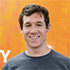
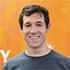
New Commits

diff --git a/views/pizza.html b/views/pizza.html
@@ -1,10 +1,14 @@
 <!DOCTYPE HTML>
 <html>
-<head>  
-  <link rel="stylesheet" href="css/style.css">
-  <link rel="stylesheet" href="css/bootstrap-grid.css">
+<head> 
+<!--inlining my CSS --> 
+<style>*{-webkit-box-sizing: border-box;-moz-box-sizing: border-box;-box-sizing: border-box;}body {font-family: "Trebuchet MS", Helvetica, sans-serif;background: black;}input {background: grey;font-size: 18px;}form {display: inline-block;}.centered {text-align: center;}#pizzaSize {font-weight: 800;}.mover {position: fixed;width: 256px;z-index: -1;}.randomPizzaContainer {float: left;display: flex;}.randomPizzaContainer:after {content: "";display: table;clear:both;}.container {background-color: rgba(240, 60, 60, 0.8);}img {vertical-align: middle;}.img-responsive {display: block;width: 100% \9;max-width: 100%;height: auto;}.img-rounded {border-radius: 6px;}.img-thumbnail {padding: 4px;line-height: 1.42857143;background-color: #ffffff;border: 1px solid #dddddd;border-radius: 4px;-webkit-transition: all 0.2s ease-in-out;-o-transition: all 0.2s ease-in-out;transition: all 0.2s ease-in-out;display: inline-block;width: 100% \9;max-width: 100%;height: auto;}.img-circle {border-radius: 50%;}hr {margin-top: 20px;margin-bottom: 20px;border: 0;border-top: 1px solid #eeeeee;}.sr-only {position: absolute;width: 1px;height: 1px;margin: -1px;padding: 0;overflow: hidden;clip: rect(0, 0, 0, 0);border: 0;}.sr-only-focusable:active,.sr-only-focusable:focus {position: static;width: auto;height: auto;margin: 0;overflow: visible;clip: auto;}.container {margin-right: auto;margin-left: auto;padding-left: 15px;padding-right: 15px;}@media (min-width: 768px) {.container {width: 750px;}}@media (min-width: 992px) {.container {width: 970px;}}@media (min-width: 1200px) {.container {width: 1170px;}}.container-fluid {margin-right: auto;margin-left: auto;padding-left: 15px;padding-right: 15px;}.row {margin-left: -15px;margin-right: -15px;}.col-xs-1, .col-sm-1, .col-md-1, .col-lg-1, .col-xs-2, .col-sm-2, .col-md-2, .col-lg-2, .col-xs-3, .col-sm-3, .col-md-3, .col-lg-3, .col-xs-4, .col-sm-4, .col-md-4, .col-lg-4, .col-xs-5, .col-sm-5, .col-md-5, .col-lg-5, .col-xs-6, .col-sm-6, .col-md-6, .col-lg-6, .col-xs-7, .col-sm-7, .col-md-7, .col-lg-7, .col-xs-8, .col-sm-8, .col-md-8, .col-lg-8, .col-xs-9, .col-sm-9, .col-md-9, .col-lg-9, .col-xs-10, .col-sm-10, .col-md-10, .col-lg-10, .col-xs-11, .col-sm-11, .col-md-11, .col-lg-11, .col-xs-12, .col-sm-12, .col-md-12, .col-lg-12 {position: relative;min-height: 1px;padding-left: 15px;padding-right: 15px;}.col-xs-1, .col-xs-2, .col-xs-3, .col-xs-4, .col-xs-5, .col-xs-6, .col-xs-7, .col-xs-8, .col-xs-9, .col-xs-10, .col-xs-11, .col-xs-12 {float: left;}.col-xs-12 {width: 100%;}.col-xs-11 {width: 91.66666667%;}.col-xs-10 {width: 83.33333333%;}.col-xs-9 {width: 75%;}.col-xs-8 {width: 66.66666667%;}.col-xs-7 {width: 58.33333333%;}.col-xs-6 {width: 50%;}.col-xs-5 {width: 41.66666667%;}.col-xs-4 {width: 33.33333333%;}.col-xs-3 {width: 25%;}.col-xs-2 {width: 16.66666667%;}.col-xs-1 {width: 8.33333333%;}.col-xs-pull-12 {right: 100%;}.col-xs-pull-11 {right: 91.66666667%;}.col-xs-pull-10 {right: 83.33333333%;}.col-xs-pull-9 {right: 75%;}.col-xs-pull-8 {right: 66.66666667%;}.col-xs-pull-7 {right: 58.33333333%;}.col-xs-pull-6 {right: 50%;}.col-xs-pull-5 {right: 41.66666667%;}.col-xs-pull-4 {right: 33.33333333%;}.col-xs-pull-3 {right: 25%;}.col-xs-pull-2 {right: 16.66666667%;}.col-xs-pull-1 {right: 8.33333333%;}.col-xs-pull-0 {right: auto;}.col-xs-push-12 {left: 100%;}.col-xs-push-11 {left: 91.66666667%;}.col-xs-push-10 {left: 83.33333333%;}.col-xs-push-9 {left: 75%;}.col-xs-push-8 {left: 66.66666667%;}.col-xs-push-7 {left: 58.33333333%;}.col-xs-push-6 {left: 50%;}.col-xs-push-5 {left: 41.66666667%;}.col-xs-push-4 {left: 33.33333333%;}.col-xs-push-3 {left: 25%;}.col-xs-push-2 {left: 16.66666667%;}.col-xs-push-1 {left: 8.33333333%;}.col-xs-push-0 {
+  left: auto;}.col-xs-offset-12 {margin-left: 100%;}.col-xs-offset-11 {margin-left: 91.66666667%;}.col-xs-offset-10 {margin-left: 83.33333333%;}.col-xs-offset-9 {margin-left: 75%;}.col-xs-offset-8 {margin-left: 66.66666667%;}.col-xs-offset-7 {margin-left: 58.33333333%;}.col-xs-offset-6 {margin-left: 50%;}.col-xs-offset-5 {margin-left: 41.66666667%;}.col-xs-offset-4 {margin-left: 33.33333333%;}.col-xs-offset-3 {margin-left: 25%;}.col-xs-offset-2 {margin-left: 16.66666667%;}.col-xs-offset-1 {margin-left: 8.33333333%;}.col-xs-offset-0 {margin-left: 0%;}@media (min-width: 768px) {.col-sm-1, .col-sm-2, .col-sm-3, .col-sm-4, .col-sm-5, .col-sm-6, .col-sm-7, .col-sm-8, .col-sm-9, .col-sm-10, .col-sm-11, .col-sm-12 {float: left;}.col-sm-12 {width: 100%;}.col-sm-11 {width: 91.66666667%;} .col-sm-10 {width: 83.33333333%;}.col-sm-9 {width: 75%;}.col-sm-8 {width: 66.66666667%;}.col-sm-7 {width: 58.33333333%;}.col-sm-6 {width: 50%;}.col-sm-5 {width: 41.66666667%;}.col-sm-4 {width: 33.33333333%;}.col-sm-3 {width: 25%;}.col-sm-2 {width: 16.66666667%;}.col-sm-1 {width: 8.33333333%;}.col-sm-pull-12 {right: 100%;}.col-sm-pull-11 {right: 91.66666667%;}.col-sm-pull-10 {right: 83.33333333%;}.col-sm-pull-9 {right: 75%;}.col-sm-pull-8 {right: 66.66666667%;}.col-sm-pull-7 {right: 58.33333333%;}.col-sm-pull-6 {right: 50%;}.col-sm-pull-5 {right: 41.66666667%;}.col-sm-pull-4 {right: 33.33333333%;}.col-sm-pull-3 {right: 25%;}.col-sm-pull-2 {right: 16.66666667%;}.col-sm-pull-1 {right: 8.33333333%;}.col-sm-pull-0 {right: auto;}.col-sm-push-12 {left: 100%;}.col-sm-push-11 {left: 91.66666667%;}.col-sm-push-10 {left: 83.33333333%;}.col-sm-push-9 {left: 75%;}.col-sm-push-8 {left: 66.66666667%;}.col-sm-push-7 {left: 58.33333333%;}.col-sm-push-6 {left: 50%;}.col-sm-push-5 {left: 41.66666667%;}.col-sm-push-4 {left: 33.33333333%;}.col-sm-push-3 {left: 25%;}.col-sm-push-2 {left: 16.66666667%;}.col-sm-push-1 {left: 8.33333333%;}.col-sm-push-0 {left: auto;}.col-sm-offset-12 {margin-left: 100%;}.col-sm-offset-11 {margin-left: 91.66666667%;}.col-sm-offset-10 {margin-left: 83.33333333%;}.col-sm-offset-9 {margin-left: 75%;}.col-sm-offset-8 {margin-left: 66.66666667%;}.col-sm-offset-7 {margin-left: 58.33333333%;}.col-sm-offset-6 {margin-left: 50%;}.col-sm-offset-5 {margin-left: 41.66666667%;}.col-sm-offset-4 {margin-left: 33.33333333%;}.col-sm-offset-3 {margin-left: 25%;}.col-sm-offset-2 {margin-left: 16.66666667%;}.col-sm-offset-1 {margin-left: 8.33333333%;}.col-sm-offset-0 {margin-left: 0%;}}@media (min-width: 992px) {.col-md-1, .col-md-2, .col-md-3, .col-md-4, .col-md-5, .col-md-6, .col-md-7, .col-md-8, .col-md-9, .col-md-10, .col-md-11, .col-md-12 {float: left;}.col-md-12 {width: 100%;}.col-md-11 {width: 91.66666667%;}.col-md-10 {width: 83.33333333%;}.col-md-9 {width: 75%;}.col-md-8 {width: 66.66666667%;}.col-md-7 {width: 58.33333333%;}.col-md-6 {width: 50%;}.col-md-5 {width: 41.66666667%;}.col-md-4 {width: 33.33333333%;}.col-md-3 {width: 25%;}.col-md-2 {width: 16.66666667%;}.col-md-1 {width: 8.33333333%;}.col-md-pull-12 {right: 100%;}.col-md-pull-11 {right: 91.66666667%;}.col-md-pull-10 {right: 83.33333333%;}.col-md-pull-9 {right: 75%;}.col-md-pull-8 {right: 66.66666667%;}.col-md-pull-7 {right: 58.33333333%;}.col-md-pull-6 {right: 50%;}.col-md-pull-5 {right: 41.66666667%;}.col-md-pull-4 {right: 33.33333333%;}.col-md-pull-3 {right: 25%;}.col-md-pull-2 {right: 16.66666667%;}.col-md-pull-1 {right: 8.33333333%;}.col-md-pull-0 {right: auto;}.col-md-push-12 {left: 100%;}.col-md-push-11 {left: 91.66666667%;}.col-md-push-10 {left: 83.33333333%;}.col-md-push-9 {left: 75%;}.col-md-push-8 {left: 66.66666667%;}.col-md-push-7 {left: 58.33333333%;}.col-md-push-6 {left: 50%;}.col-md-push-5 {left: 41.66666667%;}.col-md-push-4 {left: 33.33333333%;}.col-md-push-3 {left: 25%;}.col-md-push-2 {left: 16.66666667%;}.col-md-push-1 {left: 8.33333333%;}.col-md-push-0 {left: auto;}.col-md-offset-12 {margin-left: 100%;}.col-md-offset-11 {margin-left: 91.66666667%;}.col-md-offset-10 {margin-left: 83.33333333%;}.col-md-offset-9 {margin-left: 75%;}.col-md-offset-8 {margin-left: 66.66666667%;}.col-md-offset-7 {margin-left: 58.33333333%;}.col-md-offset-6 {margin-left: 50%;}.col-md-offset-5 {margin-left: 41.66666667%;}.col-md-offset-4 {margin-left: 33.33333333%;}.col-md-offset-3 {margin-left: 25%;}.col-md-offset-2 {margin-left: 16.66666667%;}.col-md-offset-1 {margin-left: 8.33333333%;}.col-md-offset-0 {margin-left: 0%;}}@media (min-width: 1200px) {.col-lg-1, .col-lg-2, .col-lg-3, .col-lg-4, .col-lg-5, .col-lg-6, .col-lg-7, .col-lg-8, .col-lg-9, .col-lg-10, .col-lg-11, .col-lg-12 {float: left;}.col-lg-12 {width: 100%;}.col-lg-11 {width: 91.66666667%;}.col-lg-10 {width: 83.33333333%;}.col-lg-9 {width: 75%;}.col-lg-8 {width: 66.66666667%;}.col-lg-7 {width: 58.33333333%;}.col-lg-6 {width: 50%;}.col-lg-5 {width: 41.66666667%;}.col-lg-4 {width: 33.33333333%;}.col-lg-3 {width: 25%;}.col-lg-2 {width: 16.66666667%;}.col-lg-1 {width: 8.33333333%;}.col-lg-pull-12 {right: 100%;}.col-lg-pull-11 {right: 91.66666667%;}.col-lg-pull-10 {right: 83.33333333%;}.col-lg-pull-9 {right: 75%;}.col-lg-pull-8 {right: 66.66666667%;}.col-lg-pull-7 {right: 58.33333333%;}.col-lg-pull-6 {right: 50%;}.col-lg-pull-5 {right: 41.66666667%;}.col-lg-pull-4 {right: 33.33333333%;}.col-lg-pull-3 {right: 25%;}.col-lg-pull-2 {right: 16.66666667%;}.col-lg-pull-1 {right: 8.33333333%;}.col-lg-pull-0 {right: auto;}.col-lg-push-12 {left: 100%;}.col-lg-push-11 {left: 91.66666667%;}.col-lg-push-10 {left: 83.33333333%;}.col-lg-push-9 {left: 75%;}.col-lg-push-8 {left: 66.66666667%;}.col-lg-push-7 {left: 58.33333333%;}.col-lg-push-6 {left: 50%;}.col-lg-push-5 {left: 41.66666667%;}.col-lg-push-4 {left: 33.33333333%;}.col-lg-push-3 {left: 25%;}.col-lg-push-2 {left: 16.66666667%;}.col-lg-push-1 {left: 8.33333333%;}.col-lg-push-0 {left: auto;}.col-lg-offset-12 {margin-left: 100%;}.col-lg-offset-11 {margin-left: 91.66666667%;}.col-lg-offset-10 {margin-left: 83.33333333%;}.col-lg-offset-9 {margin-left: 75%;}.col-lg-offset-8 {margin-left: 66.66666667%;}.col-lg-offset-7 {margin-left: 58.33333333%;}.col-lg-offset-6 {margin-left: 50%;}.col-lg-offset-5 {margin-left: 41.66666667%;}.col-lg-offset-4 {margin-left: 33.33333333%;}.col-lg-offset-3 {margin-left: 25%;}.col-lg-offset-2 {margin-left: 16.66666667%;}.col-lg-offset-1 {margin-left: 8.33333333%;}.col-lg-offset-0 {margin-left: 0%;}}.clearfix:before,.clearfix:after,.container:before,.container:after,.container-fluid:before,.container-fluid:after,.row:before,.row:after {content: " ";display: table;}.clearfix:after,.container:after,.container-fluid:after,.row:after {clear: both;}.center-block {display: block;margin-left: auto;margin-right: auto;}.pull-right {float: right !important;}.pull-left {float: left !important;}.hide {display: none !important;}.show {display: block !important;}.invisible {visibility: hidden;}.text-hide {font: 0/0 a;color: transparent;text-shadow: none;background-color: transparent;border: 0;}.hidden {display: none !important;visibility: hidden !important;}.affix {position: fixed;-webkit-transform: translate3d(0, 0, 0);transform: translate3d(0, 0, 0);}</style>
+ 
+<!--remvong below CSS and bootstrap css--> 
+<!--  <link rel="stylesheet" href="css/style.css"> -->
+ <!-- <link rel="stylesheet" href="css/bootstrap-grid.css">-->
 </head>
-
 <body>
   <div class="container">
     <div id="header" class="row">
@@ -36,7 +40,7 @@
     </div>
     <div id="callToAction" class="row">
       <div class="col-md-4">
-        <img src="images/pizzeria.jpg" class="img-responsive"> <!-- Image credit to: http://commons.wikimedia.org/wiki/File:HK_TST_night_%E5%98%89%E8%98%AD%E9%81%93_Granville_Road_restaurant_Paisano's_Pizzeria_pizza_Dec-2013.JPG -->
+        <img src="images/pizzeria2.jpg" class="img-responsive"> <!-- Image credit to: http://commons.wikimedia.org/wiki/File:HK_TST_night_%E5%98%89%E8%98%AD%E9%81%93_Granville_Road_restaurant_Paisano's_Pizzeria_pizza_Dec-2013.JPG -->
       </div>
       <div class="col-md-8">
         <div class="row">

diff --git a/index.html b/index.html
@@ -1,3 +1,4 @@
+<!--optimized images online and made smaller versions: profilepic is 11kb, pizzeria is 1kb -->
 <!DOCTYPE html>
 <html lang="en">
   <head>
@@ -10,6 +11,7 @@
     <!--inlining my CSS -->
     <style>html{font-size:100%;overflow-y:scroll;-webkit-tap-highlight-color:rgba(0,0,0,0);-ms-text-size-adjust:100%;-webkit-text-size-adjust:none}body{margin:0;font-size:14px;line-height:1.61;font-weight:400}body,button,input,select,textarea{font-family:'Open Sans',sans-serif;color:#333}a{color:#12C}a:visited{color:#61C}a:focus{outline:thin dotted}a:hover,a:active{color:#c00;outline:0}b,strong{font-weight:700}pre,code{font-family:monospace,monospace;font-size:1em}ul,ol{margin:1em 0;padding:0 0 0 20px}img{border:0;max-width:100%}body{background:#fff}header,footer,.container{max-width:45em;margin:0 auto}header{padding:0 .5em;color:#C90B0B}header img{border-radius:40px;float:left}header p{font-size:1.5em;font-weight:700;padding-left:4em}header p span{font-size:.8em;font-weight:400}.hero{padding:2em;background-color:#f8f8f8;font-size:1.2em;border-bottom:1px solid #ccc;border-top:1px solid #ccc}.content{padding:1em}.content li{list-style-type:none;font-size:1.1em}li img{float:left;padding-right:1em}li p{font-size:.9em;font-style:italic}footer{padding:0 .5em;border-top:1px solid #ccc}footer span{float:right;font-style:italic}@media only screen and (max-width: 480px){body{font-size:12px}header p{padding-left:4.5em}}</style>
     <!-- Hmm, what is the impact of web fonts on speed? Measure it... -->
+    <!-- Removed the below -->
     <!--<link href="//fonts.googleapis.com/css?family=Open+Sans:400,700" rel="stylesheet">-->
 
     <!--removed css/style.css below and put css above-->
